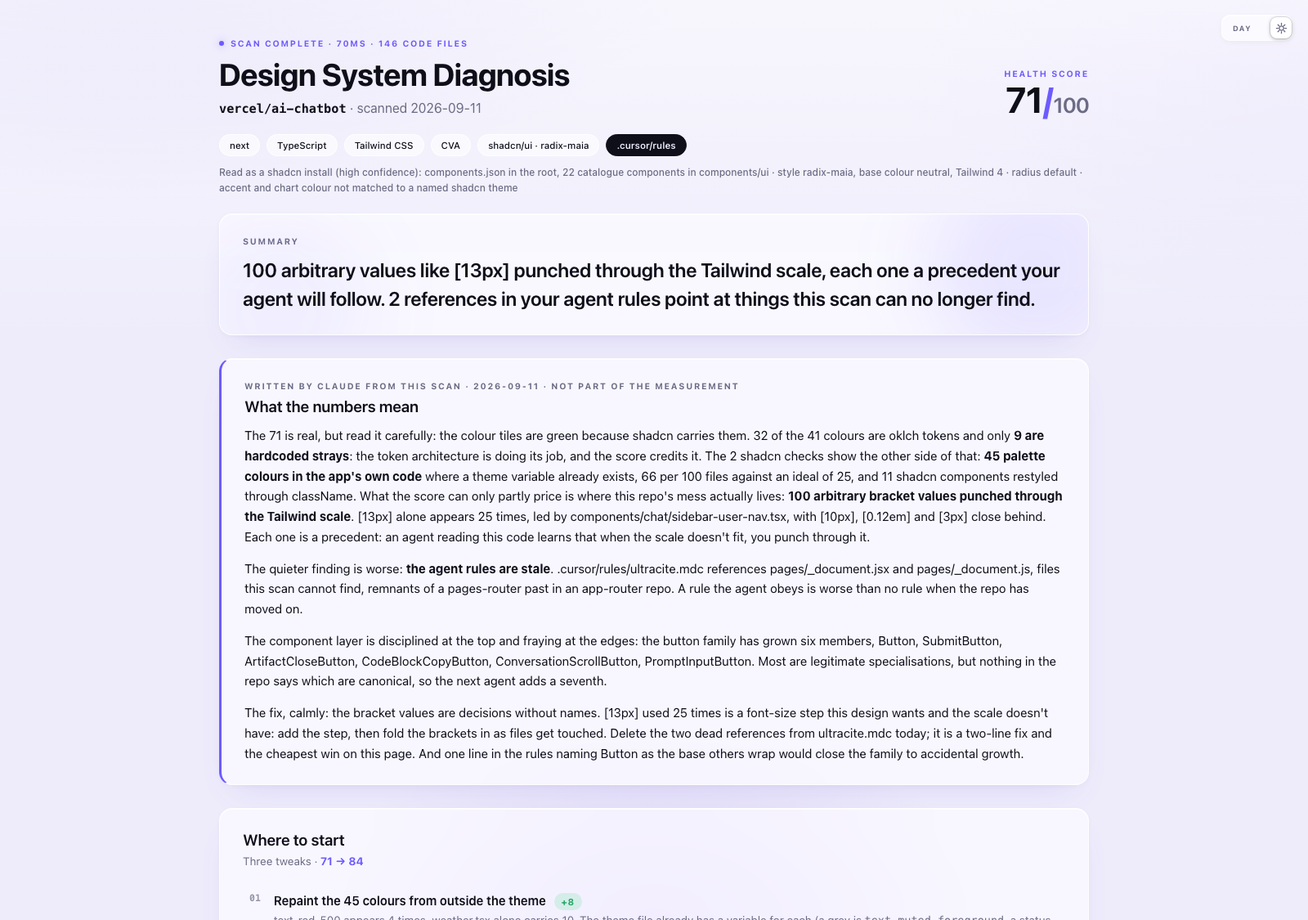
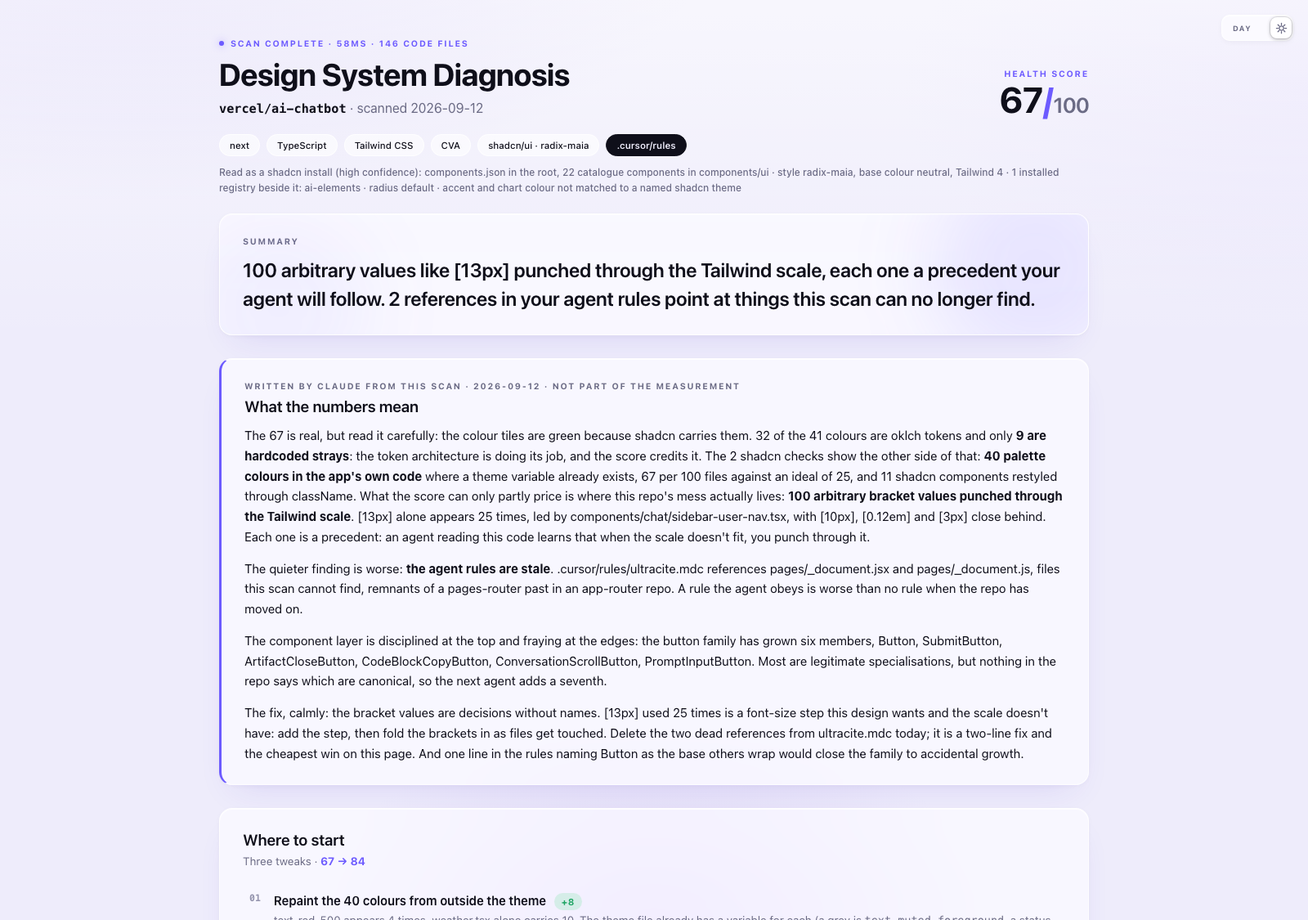
7.3.0: installed third-party registries are installed code
A folder a shadcn registry installs beside the catalogue (ai-elements,
kibo-ui, magicui, motion-primitives, or any name declared under
registries in components.json) is read like the catalogue: not own code,
and its components count as components when own code restyles them. 3 of
the 17 shadcn fleet repos carry one. Slice rebuilt, examples regenerated,
screenshots reshot. vercel/ai-chatbot: 40 off-theme colours in 60 own
files, 18 restyled components per 100, score 67.

diff --git a/docs/examples/vercel-ai-chatbot.html b/docs/examples/vercel-ai-chatbot.html
@@ -417,7 +417,7 @@
   .author:hover { text-decoration:underline; }
 </style>
 <!-- rmds-schema: gregkozakiewicz/7.2.0 -->
-<!-- rmds-score: 71 -->
+<!-- rmds-score: 67 -->
 </head><body>
 <button class="theme-toggle glass" aria-label="Switch between light and dark mode" onclick="(function(){var r=document.documentElement,t=r.getAttribute('data-theme')==='light'?'dark':'light';r.setAttribute('data-theme',t);try{localStorage.setItem('roast-theme',t)}catch(e){}})()">
   <span class="tt-lab tt-day">Day</span>
@@ -433,14 +433,14 @@
 <header>
   <div class="hero">
     <div>
-      <div class="kicker"><span class="dot"></span>Scan complete · 70ms · 146 code files</div>
+      <div class="kicker"><span class="dot"></span>Scan complete · 58ms · 146 code files</div>
       <h1>Design System Diagnosis</h1>
-      <div class="meta"><span class="mono">vercel/ai-chatbot</span> · scanned 2026-09-11</div>
+      <div class="meta"><span class="mono">vercel/ai-chatbot</span> · scanned 2026-09-12</div>
     </div>
-    <div class="score"><div class="eyebrow">Health score</div><div class="val">71<span class="slash">/</span><span class="of">100</span></div></div>
+    <div class="score"><div class="eyebrow">Health score</div><div class="val">67<span class="slash">/</span><span class="of">100</span></div></div>
   </div>
   <div class="chips"><span class="chip">next</span><span class="chip">TypeScript</span><span class="chip">Tailwind CSS</span><span class="chip">CVA</span><span class="chip">shadcn/ui · radix-maia</span><span class="chip chip-agent">.cursor/rules</span></div>
-  <div class="excl">Read as a shadcn install (high confidence): components.json in the root, 22 catalogue components in components/ui · style radix-maia, base colour neutral, Tailwind 4 · radius default · accent and chart colour not matched to a named shadcn theme</div>
+  <div class="excl">Read as a shadcn install (high confidence): components.json in the root, 22 catalogue components in components/ui · style radix-maia, base colour neutral, Tailwind 4 · 1 installed registry beside it: ai-elements · radius default · accent and chart colour not matched to a named shadcn theme</div>
   
   
   <div class="glass verdict-card">
@@ -452,24 +452,24 @@
 
 <section class="glass pad notes-sec">
     <div class="sec-head">
-      <div class="eyebrow">Written by Claude from this scan · 2026-09-11 · not part of the measurement</div>
+      <div class="eyebrow">Written by Claude from this scan · 2026-09-12 · not part of the measurement</div>
       <h2>What the numbers mean</h2>
     </div>
-    <div class="notes-body"><p>The 71 is real, but read it carefully: the colour tiles are green because shadcn carries them. 32 of the 41 colours are oklch tokens and only <strong>9 are hardcoded strays</strong>: the token architecture is doing its job, and the score credits it. The 2 shadcn checks show the other side of that: <strong>45 palette colours in the app's own code</strong> where a theme variable already exists, 66 per 100 files against an ideal of 25, and 11 shadcn components restyled through className. What the score can only partly price is where this repo's mess actually lives: <strong>100 arbitrary bracket values punched through the Tailwind scale</strong>. [13px] alone appears 25 times, led by components/chat/sidebar-user-nav.tsx, with [10px], [0.12em] and [3px] close behind. Each one is a precedent: an agent reading this code learns that when the scale doesn't fit, you punch through it.</p><p>The quieter finding is worse: <strong>the agent rules are stale</strong>. .cursor/rules/ultracite.mdc references pages/_document.jsx and pages/_document.js, files this scan cannot find, remnants of a pages-router past in an app-router repo. A rule the agent obeys is worse than no rule when the repo has moved on.</p><p>The component layer is disciplined at the top and fraying at the edges: the button family has grown six members, Button, SubmitButton, ArtifactCloseButton, CodeBlockCopyButton, ConversationScrollButton, PromptInputButton. Most are legitimate specialisations, but nothing in the repo says which are canonical, so the next agent adds a seventh.</p><p>The fix, calmly: the bracket values are decisions without names. [13px] used 25 times is a font-size step this design wants and the scale doesn't have: add the step, then fold the brackets in as files get touched. Delete the two dead references from ultracite.mdc today; it is a two-line fix and the cheapest win on this page. And one line in the rules naming Button as the base others wrap would close the family to accidental growth.</p></div>
+    <div class="notes-body"><p>The 67 is real, but read it carefully: the colour tiles are green because shadcn carries them. 32 of the 41 colours are oklch tokens and only <strong>9 are hardcoded strays</strong>: the token architecture is doing its job, and the score credits it. The 2 shadcn checks show the other side of that: <strong>40 palette colours in the app's own code</strong> where a theme variable already exists, 67 per 100 files against an ideal of 25, and 11 shadcn components restyled through className. What the score can only partly price is where this repo's mess actually lives: <strong>100 arbitrary bracket values punched through the Tailwind scale</strong>. [13px] alone appears 25 times, led by components/chat/sidebar-user-nav.tsx, with [10px], [0.12em] and [3px] close behind. Each one is a precedent: an agent reading this code learns that when the scale doesn't fit, you punch through it.</p><p>The quieter finding is worse: <strong>the agent rules are stale</strong>. .cursor/rules/ultracite.mdc references pages/_document.jsx and pages/_document.js, files this scan cannot find, remnants of a pages-router past in an app-router repo. A rule the agent obeys is worse than no rule when the repo has moved on.</p><p>The component layer is disciplined at the top and fraying at the edges: the button family has grown six members, Button, SubmitButton, ArtifactCloseButton, CodeBlockCopyButton, ConversationScrollButton, PromptInputButton. Most are legitimate specialisations, but nothing in the repo says which are canonical, so the next agent adds a seventh.</p><p>The fix, calmly: the bracket values are decisions without names. [13px] used 25 times is a font-size step this design wants and the scale doesn't have: add the step, then fold the brackets in as files get touched. Delete the two dead references from ultracite.mdc today; it is a two-line fix and the cheapest win on this page. And one line in the rules naming Button as the base others wrap would close the family to accidental growth.</p></div>
 </section>
 
 
 
 <section class="glass pad">
-    <div class="sec-head"><h2>Where to start</h2><p class="sub">Three tweaks · <b class="proj">71 &rarr; 84</b></p></div>
+    <div class="sec-head"><h2>Where to start</h2><p class="sub">Three tweaks · <b class="proj">67 &rarr; 84</b></p></div>
     <div class="ledger">
       <div class="ledger-row start-row">
         <span class="ledger-idx">01</span>
-        <div class="start-body"><div class="start-head"><div class="start-title">Repaint the 45 colours from outside the theme</div><span class="delta">+8</span></div><div class="sub">text-red-500 appears 4 times, weather.tsx alone carries 10. The theme file already has a variable for each (a grey is <code>text-muted-foreground</code>, a status colour is a Badge variant or a variable you add). Swap the class, not the value.</div>
+        <div class="start-body"><div class="start-head"><div class="start-title">Repaint the 40 colours from outside the theme</div><span class="delta">+8</span></div><div class="sub">text-red-500 appears 4 times, weather.tsx alone carries 10. The theme file already has a variable for each (a grey is <code>text-muted-foreground</code>, a status colour is a Badge variant or a variable you add). Swap the class, not the value.</div>
         <div class="start-actions"><button type="button" class="fixbtn" data-fix="0">Copy the fix prompt</button><span class="fixhint">paste it into your agent · <button type="button" class="fixview" data-fix="0">view it first</button></span></div>
         <div class="fixprompt" hidden id="fixprompt-0">You are fixing one design-system finding in the vercel-ai-chatbot repository, measured by roast-my-design-system.
 
-The finding: Repaint the 45 colours from outside the theme
+The finding: Repaint the 40 colours from outside the theme
 
 The detail: text-red-500 appears 4 times, weather.tsx alone carries 10. The theme file already has a variable for each (a grey is text-muted-foreground, a status colour is a Badge variant or a variable you add). Swap the class, not the value.
 
@@ -487,7 +487,7 @@ npx roast-my-design-system@latest</div></div>
       </div>
       <div class="ledger-row start-row">
         <span class="ledger-idx">02</span>
-        <div class="start-body"><div class="start-head"><div class="start-title">Stop restyling shadcn components through className</div><span class="delta">+4</span></div><div class="sub">11 shadcn components receive a colour or a font through className, like &lt;SidebarGroupLabel className=&quot;font-semibold&quot;&gt;. Use the variant that does it, or add one to the component you own. className on a shadcn component is for layout only.</div>
+        <div class="start-body"><div class="start-head"><div class="start-title">Stop restyling shadcn components through className</div><span class="delta">+8</span></div><div class="sub">11 shadcn components receive a colour or a font through className, like &lt;SidebarGroupLabel className=&quot;font-semibold&quot;&gt;. Use the variant that does it, or add one to the component you own. className on a shadcn component is for layout only.</div>
         <div class="start-actions"><button type="button" class="fixbtn" data-fix="1">Copy the fix prompt</button><span class="fixhint">paste it into your agent · <button type="button" class="fixview" data-fix="1">view it first</button></span></div>
         <div class="fixprompt" hidden id="fixprompt-1">You are fixing one design-system finding in the vercel-ai-chatbot repository, measured by roast-my-design-system.
 
@@ -495,7 +495,7 @@ The finding: Stop restyling shadcn components through className
 
 The detail: 11 shadcn components receive a colour or a font through className, like &lt;SidebarGroupLabel className=&amp;quot;font-semibold&amp;quot;&gt;. Use the variant that does it, or add one to the component you own. className on a shadcn component is for layout only.
 
-Expected payoff: about +4 points on the report's 0-100 score.
+Expected payoff: about +8 points on the report's 0-100 score.
 
 How to fix it, calmly and with respect for intent:
 - A value used many times is a decision without a name, not a mistake. Name it and consolidate; never blind-delete.
@@ -565,7 +565,7 @@ npx roast-my-design-system@latest</div></div>
           <span class="gift-count">21 rules generated from this scan, every one with a receipt</span></div>
         <pre class="gift-md" id="gift-md">## Design system rules
 
-&lt;!-- Generated by roast-my-design-system from a scan of vercel/ai-chatbot on 2026-09-11.
+&lt;!-- Generated by roast-my-design-system from a scan of vercel/ai-chatbot on 2026-09-12.
      Paste into CLAUDE.md, .cursor/rules or AGENTS.md. Regenerate after big refactors:
      npx roast-my-design-system@latest --rules
      Door note: Codex and Cursor read AGENTS.md; Claude Code reads CLAUDE.md only.
@@ -615,7 +615,7 @@ Follow these rules when writing or editing UI in this repo. Every rule below was
 
 - This is a shadcn install (style `radix-maia`, base colour neutral). The theme is a set of CSS variables in `app/globals.css`: background, foreground, primary, muted, border and the rest, each with a light and a dark value. Change a colour there, never in a component.
 - Use the semantic classes the theme gives you (`bg-background`, `text-muted-foreground`, `border-border`), never a palette colour like `bg-blue-500` or `text-gray-600`, and never a hand-written `dark:` colour. The variables already carry both modes.
-  (45 palette colours already sit in own code, `text-red-500` ×4, `dark:text-neutral-50` ×4, `text-red-600` ×3; do not add to them.)
+  (40 palette colours already sit in own code, `text-red-500` ×4, `dark:text-neutral-50` ×4, `text-red-600` ×2; do not add to them.)
 - Before adding classes to a shadcn component, use one of its variants (`variant=&quot;outline&quot;`, `size=&quot;sm&quot;`). `className` on a shadcn component is for layout only: width, margin, position. Never colour, never typography.
   (11 shadcn components already restyled through className, like `&lt;SidebarGroupLabel className=&quot;font-semibold&quot;&gt;` and `&lt;Label className=&quot;font-normal&quot;&gt;`; do not add to them.)
 - Edit the component you own in `components/ui`. Never build a second one beside it under another name. A wrapper that composes shadcn components is fine; a second implementation is not.
@@ -684,12 +684,12 @@ Follow these rules when writing or editing UI in this repo. Every rule below was
   <div class="rows"><div class="row"><span class="rlab">Ideal Design System</span><span class="rval">~20 <span class="dir d-up">▲</span></span></div><div class="row"><span class="rlab">Avg shadcn repo</span><span class="rval">169 · cleaner than 76% <span class="dir d-down">▼</span></span></div><div class="row"><span class="rlab">Reputable systems</span><span class="rval">0 <span class="dir d-up">▲</span></span></div></div>
 </div><div class="stat glass st-bad">
   <svg class="ic ic-bad" viewBox="0 0 24 24"><line x1="18.5" y1="5.5" x2="5.5" y2="18.5"/><line x1="5.5" y1="5.5" x2="18.5" y2="18.5"/></svg>
-  <div class="num">66</div><div class="lab">off-theme colours per 100 files</div>
+  <div class="num">67</div><div class="lab">off-theme colours per 100 files</div>
   <div class="rows"><div class="row"><span class="rlab">Ideal Design System</span><span class="rval">~25 <span class="dir d-up">▲</span></span></div><div class="row"><span class="rlab">Avg shadcn repo</span><span class="rval">57 · messier than 65% <span class="dir d-up">▲</span></span></div></div>
-</div><div class="stat glass st-warn">
-  <svg class="ic ic-warn" viewBox="0 0 24 24"><circle cx="12" cy="12" r="9.5"/><line x1="12" y1="7.5" x2="12" y2="13"/><line x1="12" y1="16.5" x2="12" y2="16.51"/></svg>
-  <div class="num">16</div><div class="lab">components restyled from outside per 100 files</div>
-  <div class="rows"><div class="row"><span class="rlab">Ideal Design System</span><span class="rval">~15 <span class="dir d-up">▲</span></span></div><div class="row"><span class="rlab">Avg shadcn repo</span><span class="rval">16 <span class="dir d-eq">=</span></span></div></div>
+</div><div class="stat glass st-bad">
+  <svg class="ic ic-bad" viewBox="0 0 24 24"><line x1="18.5" y1="5.5" x2="5.5" y2="18.5"/><line x1="5.5" y1="5.5" x2="18.5" y2="18.5"/></svg>
+  <div class="num">18</div><div class="lab">components restyled from outside per 100 files</div>
+  <div class="rows"><div class="row"><span class="rlab">Ideal Design System</span><span class="rval">~15 <span class="dir d-up">▲</span></span></div><div class="row"><span class="rlab">Avg shadcn repo</span><span class="rval">17 <span class="dir d-up">▲</span></span></div></div>
 </div></div>
 
 
@@ -725,7 +725,7 @@ Follow these rules when writing or editing UI in this repo. Every rule below was
 </section></section>
 <section class="glass pad" id="shadcn" style="margin-top:16px">
     <div class="sec-head"><h2>The shadcn theme and the 2 shadcn checks</h2><p class="sub">shadcn gives you a theme file of named variables and a set of components with variants. These receipts show where your own code went around both.</p></div>
-    <div class="receipts"><div class="eyebrow">the theme file, variable by variable</div><p class="sub">44 variables for light, 35 for dark in app/globals.css · 12 custom variables of your own (--shadow-card, --shadow-float, --shadow-composer, --shadow-composer-focus, --shadow-inset…), 3 of them light only, 3 never mapped in @theme inline.</p></div><div class="receipts"><div class="eyebrow">45 colours from outside the theme in 10 of 68 own files · 66 per 100 files</div><div class="chips-row"><span class="vchip bad">text-red-500 ×4</span><span class="vchip bad">dark:text-neutral-50 ×4</span><span class="vchip bad">text-red-600 ×3</span><span class="vchip bad">text-green-600 ×2</span><span class="vchip bad">border-red-200 ×2</span><span class="vchip bad">bg-red-50 ×2</span><span class="vchip bad">dark:bg-red-950/50 ×2</span><span class="vchip bad">dark:bg-neutral-950 ×2</span></div><div class="chips-row"><span class="vchip" title="components/chat/weather.tsx">weather.tsx ×10</span><span class="vchip" title="components/chat/message.tsx">message.tsx ×9</span><span class="vchip" title="components/chat/sheet-editor.tsx">sheet-editor.tsx ×8</span><span class="vchip" title="components/chat/diffview.tsx">diffview.tsx ×6</span><span class="vchip" title="components/ai-elements/tool.tsx">tool.tsx ×5</span></div></div><div class="whywrap"><button type="button" class="whybtn" data-why="paintTin"><svg class="why-ic" viewBox="0 0 24 24" aria-hidden="true"><circle cx="12" cy="12" r="9.5"/><path d="M9.3 9.1a2.8 2.8 0 1 1 4 3.1c-.9.5-1.3 1.1-1.3 2.1"/><line x1="12" y1="17.2" x2="12" y2="17.21"/></svg><span class="why-lab">why this matters</span></button><div class="whytext" hidden id="why-paintTin"><p>shadcn gives every project a theme file. It holds one CSS variable per job: background, foreground, muted text, border, ring, and about 30 more. Each has a light value and a dark value. Components use them through classes like bg-background and text-muted-foreground.</p><p>A palette class such as text-gray-500 or bg-blue-100 skips that file. It works on the day. It stops working at the first theme change: the variables move, the palette colour stays, and the page shows 2 designs at once. Dark mode is where it shows first. A variable carries both values; a palette class carries one, so someone adds dark:bg-gray-900 next to it, and now there are 2 places to keep in step. An AI agent reading that file copies the pair.</p><p>The ideal is 25 per 100 files. That is where the tidiest third of 15 shadcn repos in the benchmark sit; the median is 62. shadcn's own rules for agents say it in 1 line: use semantic colours, never bg-blue-500.</p></div></div><div class="receipts"><div class="eyebrow">11 shadcn components restyled through className · 16 per 100 files</div><div class="chips-row"><span class="vchip bad">&lt;SidebarGroupLabel className=&quot;font-semibold&quot;&gt; ×3</span><span class="vchip bad">&lt;Label className=&quot;font-normal&quot;&gt; ×2</span><span class="vchip bad">&lt;Input className=&quot;text-sm&quot;&gt; ×2</span><span class="vchip bad">&lt;SelectTrigger className=&quot;text-xs&quot;&gt; ×1</span><span class="vchip bad">&lt;Badge className=&quot;text-xs&quot;&gt; ×1</span><span class="vchip bad">&lt;SidebarMenuButton className=&quot;data-active:font-normal font-medium&quot;&gt; ×1</span></div></div><div class="whywrap"><button type="button" class="whybtn" data-why="doorOverrides"><svg class="why-ic" viewBox="0 0 24 24" aria-hidden="true"><circle cx="12" cy="12" r="9.5"/><path d="M9.3 9.1a2.8 2.8 0 1 1 4 3.1c-.9.5-1.3 1.1-1.3 2.1"/><line x1="12" y1="17.2" x2="12" y2="17.21"/></svg><span class="why-lab">why this matters</span></button><div class="whytext" hidden id="why-doorOverrides"><p>A shadcn component ships with variants: outline, ghost, destructive, small, large. The variant decides how the component looks, once, in the component file you own. Passing bg-blue-100 or font-bold through className decides it again at the call site, where the component can not see it.</p><p>Do this in 5 places and 1 button has 6 designs. The next person can not tell which one is intended, and an agent copies whichever it finds first. shadcn's guidance gives 3 routes: use a variant that exists, add a variant to the component, or add a variable to the theme file. className is for layout: width, margin, position.</p><p>The ideal is 15 per 100 files, the tidiest third of the same 15 repos; the median is 22.</p></div></div>
+    <div class="receipts"><div class="eyebrow">the theme file, variable by variable</div><p class="sub">44 variables for light, 35 for dark in app/globals.css · 12 custom variables of your own (--shadow-card, --shadow-float, --shadow-composer, --shadow-composer-focus, --shadow-inset…), 3 of them light only, 3 never mapped in @theme inline.</p></div><div class="receipts"><div class="eyebrow">40 colours from outside the theme in 9 of 60 own files · 67 per 100 files</div><div class="chips-row"><span class="vchip bad">text-red-500 ×4</span><span class="vchip bad">dark:text-neutral-50 ×4</span><span class="vchip bad">text-red-600 ×2</span><span class="vchip bad">border-red-200 ×2</span><span class="vchip bad">bg-red-50 ×2</span><span class="vchip bad">dark:bg-red-950/50 ×2</span><span class="vchip bad">dark:bg-neutral-950 ×2</span><span class="vchip bad">dark:bg-neutral-900 ×2</span></div><div class="chips-row"><span class="vchip" title="components/chat/weather.tsx">weather.tsx ×10</span><span class="vchip" title="components/chat/message.tsx">message.tsx ×9</span><span class="vchip" title="components/chat/sheet-editor.tsx">sheet-editor.tsx ×8</span><span class="vchip" title="components/chat/diffview.tsx">diffview.tsx ×6</span><span class="vchip" title="components/chat/console.tsx">console.tsx ×2</span></div></div><div class="whywrap"><button type="button" class="whybtn" data-why="paintTin"><svg class="why-ic" viewBox="0 0 24 24" aria-hidden="true"><circle cx="12" cy="12" r="9.5"/><path d="M9.3 9.1a2.8 2.8 0 1 1 4 3.1c-.9.5-1.3 1.1-1.3 2.1"/><line x1="12" y1="17.2" x2="12" y2="17.21"/></svg><span class="why-lab">why this matters</span></button><div class="whytext" hidden id="why-paintTin"><p>shadcn gives every project a theme file. It holds one CSS variable per job: background, foreground, muted text, border, ring, and about 30 more. Each has a light value and a dark value. Components use them through classes like bg-background and text-muted-foreground.</p><p>A palette class such as text-gray-500 or bg-blue-100 skips that file. It works on the day. It stops working at the first theme change: the variables move, the palette colour stays, and the page shows 2 designs at once. Dark mode is where it shows first. A variable carries both values; a palette class carries one, so someone adds dark:bg-gray-900 next to it, and now there are 2 places to keep in step. An AI agent reading that file copies the pair.</p><p>The ideal is 25 per 100 files. That is where the tidiest third of 15 shadcn repos in the benchmark sit; the median is 62. shadcn's own rules for agents say it in 1 line: use semantic colours, never bg-blue-500.</p></div></div><div class="receipts"><div class="eyebrow">11 shadcn components restyled through className · 18 per 100 files</div><div class="chips-row"><span class="vchip bad">&lt;SidebarGroupLabel className=&quot;font-semibold&quot;&gt; ×3</span><span class="vchip bad">&lt;Label className=&quot;font-normal&quot;&gt; ×2</span><span class="vchip bad">&lt;Input className=&quot;text-sm&quot;&gt; ×2</span><span class="vchip bad">&lt;Shimmer className=&quot;font-medium&quot;&gt; ×1</span><span class="vchip bad">&lt;ToolOutput className=&quot;text-red-500&quot;&gt; ×1</span><span class="vchip bad">&lt;SidebarMenuButton className=&quot;data-active:font-normal font-medium&quot;&gt; ×1</span></div></div><div class="whywrap"><button type="button" class="whybtn" data-why="doorOverrides"><svg class="why-ic" viewBox="0 0 24 24" aria-hidden="true"><circle cx="12" cy="12" r="9.5"/><path d="M9.3 9.1a2.8 2.8 0 1 1 4 3.1c-.9.5-1.3 1.1-1.3 2.1"/><line x1="12" y1="17.2" x2="12" y2="17.21"/></svg><span class="why-lab">why this matters</span></button><div class="whytext" hidden id="why-doorOverrides"><p>A shadcn component ships with variants: outline, ghost, destructive, small, large. The variant decides how the component looks, once, in the component file you own. Passing bg-blue-100 or font-bold through className decides it again at the call site, where the component can not see it.</p><p>Do this in 5 places and 1 button has 6 designs. The next person can not tell which one is intended, and an agent copies whichever it finds first. shadcn's guidance gives 3 routes: use a variant that exists, add a variant to the component, or add a variable to the theme file. className is for layout: width, margin, position.</p><p>The ideal is 15 per 100 files, the tidiest third of the same 15 repos; the median is 22.</p></div></div>
   </section>
 
 <section class="glass pad">
@@ -1056,7 +1056,7 @@ Follow these rules when writing or editing UI in this repo. Every rule below was
 <footer>
   <div class="foot-left">
     <div>Generated by <a class="brand" href="https://github.com/gregkozakiewicz/roast-my-design-system">roast-my-design-system</a> <span class="ver">ver. 7.3.0</span> · free to run: <span class="mono" id="npx-cmd">npx roast-my-design-system@latest</span> <button type="button" class="copy-pill" id="npx-copy">copy</button> · also a Claude Code + Codex skill and a local MCP server</div>
-    <div class="foot-sub">Designed and built by <a class="author" href="https://gregkozakiewicz.com/?utm_source=roast-report"><span class="gk-mark"></span>Greg Kozakiewicz</a> · <span class="scan-id" title="scan id">84e678e6edb8</span> · Think it got something wrong? <a class="feedback" href="https://github.com/gregkozakiewicz/roast-my-design-system/issues/new?template=feedback.yml&amp;version=7.2.0"><svg class="pulse" viewBox="0 0 24 24" aria-hidden="true"><polyline points="2 12.5 6.5 12.5 9.5 4 15 20.5 18 12.5 22 12.5"/></svg>Say so, and say which bit</a></div>
+    <div class="foot-sub">Designed and built by <a class="author" href="https://gregkozakiewicz.com/?utm_source=roast-report"><span class="gk-mark"></span>Greg Kozakiewicz</a> · <span class="scan-id" title="scan id">c35604857cd0</span> · Think it got something wrong? <a class="feedback" href="https://github.com/gregkozakiewicz/roast-my-design-system/issues/new?template=feedback.yml&amp;version=7.2.0"><svg class="pulse" viewBox="0 0 24 24" aria-hidden="true"><polyline points="2 12.5 6.5 12.5 9.5 4 15 20.5 18 12.5 22 12.5"/></svg>Say so, and say which bit</a></div>
   </div>
   <span class="creds"><span>Non-destructive scan</span><span>Read-only</span><span>Paths are real</span></span>
 </footer>

diff --git a/docs/examples/telekom-scale.html b/docs/examples/telekom-scale.html
@@ -433,9 +433,9 @@
 <header>
   <div class="hero">
     <div>
-      <div class="kicker"><span class="dot"></span>Scan complete · 105ms · 210 code files</div>
+      <div class="kicker"><span class="dot"></span>Scan complete · 87ms · 210 code files</div>
       <h1>Design System Diagnosis</h1>
-      <div class="meta"><span class="mono">telekom/scale</span> · scanned 2026-09-11</div>
+      <div class="meta"><span class="mono">telekom/scale</span> · scanned 2026-09-12</div>
     </div>
     <div class="score"><div class="eyebrow">Health score</div><div class="val">55<span class="slash">/</span><span class="of">100</span></div></div>
   </div>
@@ -452,7 +452,7 @@
 
 <section class="glass pad notes-sec">
     <div class="sec-head">
-      <div class="eyebrow">Written by Claude from this scan · 2026-09-11 · not part of the measurement</div>
+      <div class="eyebrow">Written by Claude from this scan · 2026-09-12 · not part of the measurement</div>
       <h2>What the numbers mean</h2>
     </div>
     <div class="notes-body"><p>Scale is architecturally sound, and this scan can now say so with the components read: 95 Stencil web components, generated React, Vue and Angular wrappers, and a real composition core where <strong>scale-dropdown-select-item</strong>, <strong>scale-combobox</strong> and <strong>scale-button</strong> do the heavy lifting. The findings below are not quality problems. They are the residue of a token migration that was started and never closed out.</p><p><strong>The headline is still the token migration.</strong> Most token references answer to the current --telekom-* namespace, while a minority still call --scl-*, whose definitions sit in the in-repo @telekom/scale-design-tokens package that is itself marked deprecated in favour of the separate @telekom/design-tokens. The source of truth moved; some of the calls have not followed it yet. The 66 off-scale spacing values and the 2 near-identical colour pairs are the same unfinished move wearing different clothes.</p><p><strong>Where the specificity fights are.</strong> The 26 !important declarations cluster instead of spreading: data-grid alone carries 8. The composite components are where the cascade is being argued with, and those are also the components consumers can least work around.</p><p><strong>Three names are defined twice.</strong> TelekomNavItem, Logo and Shell each have two implementations. In a system whose whole promise is one canonical answer per question, an agent asked for the nav item has a coin to flip. Small list, cheap fix, outsized signal.</p><p><strong>Two colour findings worth separating.</strong> #cb0068, the pressed state of Telekom magenta, appears hardcoded rather than derived from the brand token, and it is the one colour the licence specifically ring-fences: the clearest commercial argument for a real token boundary. Separately, the near-identical dark pair #1b1b1b next to #191919 is copy-paste, not a decision.</p><p><strong>What is genuinely working.</strong> 302 colours sounds alarming and is not: 297 of them are tokens, the greys ride on the same tokens, and there are zero arbitrary bracket values and zero unimported components in the design-system scope. The web component core with generated framework wrappers remains the right call for an organisation with this many product estates.</p><p><strong>One gap that grows monthly.</strong> No CLAUDE.md, no AGENTS.md. For a design system whose entire job is telling people which component is canonical, every agent-written UI change is currently a guess. The rules file this scan can generate would name the canonical components, the --telekom-* namespace and the duplicates to avoid, in one page.</p></div>
@@ -550,7 +550,7 @@ npx roast-my-design-system@latest</div></div>
           <span class="gift-count">14 rules generated from this scan, every one with a receipt</span></div>
         <pre class="gift-md" id="gift-md">## Design system rules
 
-&lt;!-- Generated by roast-my-design-system from a scan of telekom/scale on 2026-09-11.
+&lt;!-- Generated by roast-my-design-system from a scan of telekom/scale on 2026-09-12.
      Paste into CLAUDE.md, .cursor/rules or AGENTS.md. Regenerate after big refactors:
      npx roast-my-design-system@latest --rules
      Door note: Codex and Cursor read AGENTS.md; Claude Code reads CLAUDE.md only.
@@ -1056,7 +1056,7 @@ Follow these rules when writing or editing UI in this repo. Every rule below was
 <footer>
   <div class="foot-left">
     <div>Generated by <a class="brand" href="https://github.com/gregkozakiewicz/roast-my-design-system">roast-my-design-system</a> <span class="ver">ver. 7.3.0</span> · free to run: <span class="mono" id="npx-cmd">npx roast-my-design-system@latest</span> <button type="button" class="copy-pill" id="npx-copy">copy</button> · also a Claude Code + Codex skill and a local MCP server</div>
-    <div class="foot-sub">Designed and built by <a class="author" href="https://gregkozakiewicz.com/?utm_source=roast-report"><span class="gk-mark"></span>Greg Kozakiewicz</a> · <span class="scan-id" title="scan id">36590eb69160</span> · Think it got something wrong? <a class="feedback" href="https://github.com/gregkozakiewicz/roast-my-design-system/issues/new?template=feedback.yml&amp;version=7.2.0"><svg class="pulse" viewBox="0 0 24 24" aria-hidden="true"><polyline points="2 12.5 6.5 12.5 9.5 4 15 20.5 18 12.5 22 12.5"/></svg>Say so, and say which bit</a></div>
+    <div class="foot-sub">Designed and built by <a class="author" href="https://gregkozakiewicz.com/?utm_source=roast-report"><span class="gk-mark"></span>Greg Kozakiewicz</a> · <span class="scan-id" title="scan id">2eee9613d4c4</span> · Think it got something wrong? <a class="feedback" href="https://github.com/gregkozakiewicz/roast-my-design-system/issues/new?template=feedback.yml&amp;version=7.2.0"><svg class="pulse" viewBox="0 0 24 24" aria-hidden="true"><polyline points="2 12.5 6.5 12.5 9.5 4 15 20.5 18 12.5 22 12.5"/></svg>Say so, and say which bit</a></div>
   </div>
   <span class="creds"><span>Non-destructive scan</span><span>Read-only</span><span>Paths are real</span></span>
 </footer>

diff --git a/docs/examples/dubinc-dub.html b/docs/examples/dubinc-dub.html
@@ -433,9 +433,9 @@
 <header>
   <div class="hero">
     <div>
-      <div class="kicker"><span class="dot"></span>Scan complete · 881ms · 4,157 code files</div>
+      <div class="kicker"><span class="dot"></span>Scan complete · 819ms · 4,157 code files</div>
       <h1>Design System Diagnosis</h1>
-      <div class="meta"><span class="mono">dubinc/dub</span> · scanned 2026-09-11</div>
+      <div class="meta"><span class="mono">dubinc/dub</span> · scanned 2026-09-12</div>
     </div>
     <div class="score"><div class="eyebrow">Health score</div><div class="val">15<span class="slash">/</span><span class="of">100</span></div></div>
   </div>
@@ -546,7 +546,7 @@ npx roast-my-design-system@latest</div></div>
           <span class="gift-count">27 rules generated from this scan, every one with a receipt</span></div>
         <pre class="gift-md" id="gift-md">## Design system rules
 
-&lt;!-- Generated by roast-my-design-system from a scan of dubinc/dub on 2026-09-11.
+&lt;!-- Generated by roast-my-design-system from a scan of dubinc/dub on 2026-09-12.
      Paste into CLAUDE.md, .cursor/rules or AGENTS.md. Regenerate after big refactors:
      npx roast-my-design-system@latest --rules
      Door note: Codex and Cursor read AGENTS.md; Claude Code reads CLAUDE.md only.
@@ -681,7 +681,7 @@ Follow these rules when writing or editing UI in this repo. Every rule below was
 </div><div class="stat glass st-bad">
   <svg class="ic ic-bad" viewBox="0 0 24 24"><line x1="18.5" y1="5.5" x2="5.5" y2="18.5"/><line x1="5.5" y1="5.5" x2="18.5" y2="18.5"/></svg>
   <div class="num">40</div><div class="lab">components restyled from outside per 100 files</div>
-  <div class="rows"><div class="row"><span class="rlab">Ideal Design System</span><span class="rval">~15 <span class="dir d-up">▲</span></span></div><div class="row"><span class="rlab">Avg shadcn repo</span><span class="rval">16 · messier than 82% <span class="dir d-up">▲</span></span></div></div>
+  <div class="rows"><div class="row"><span class="rlab">Ideal Design System</span><span class="rval">~15 <span class="dir d-up">▲</span></span></div><div class="row"><span class="rlab">Avg shadcn repo</span><span class="rval">17 · messier than 82% <span class="dir d-up">▲</span></span></div></div>
 </div></div>
 
 <section class="glass pad">
@@ -1135,7 +1135,7 @@ Follow these rules when writing or editing UI in this repo. Every rule below was
 <footer>
   <div class="foot-left">
     <div>Generated by <a class="brand" href="https://github.com/gregkozakiewicz/roast-my-design-system">roast-my-design-system</a> <span class="ver">ver. 7.3.0</span> · free to run: <span class="mono" id="npx-cmd">npx roast-my-design-system@latest</span> <button type="button" class="copy-pill" id="npx-copy">copy</button> · also a Claude Code + Codex skill and a local MCP server</div>
-    <div class="foot-sub">Designed and built by <a class="author" href="https://gregkozakiewicz.com/?utm_source=roast-report"><span class="gk-mark"></span>Greg Kozakiewicz</a> · <span class="scan-id" title="scan id">f2e7a6e2d287</span> · Think it got something wrong? <a class="feedback" href="https://github.com/gregkozakiewicz/roast-my-design-system/issues/new?template=feedback.yml&amp;version=7.2.0"><svg class="pulse" viewBox="0 0 24 24" aria-hidden="true"><polyline points="2 12.5 6.5 12.5 9.5 4 15 20.5 18 12.5 22 12.5"/></svg>Say so, and say which bit</a></div>
+    <div class="foot-sub">Designed and built by <a class="author" href="https://gregkozakiewicz.com/?utm_source=roast-report"><span class="gk-mark"></span>Greg Kozakiewicz</a> · <span class="scan-id" title="scan id">2edf44a753dc</span> · Think it got something wrong? <a class="feedback" href="https://github.com/gregkozakiewicz/roast-my-design-system/issues/new?template=feedback.yml&amp;version=7.2.0"><svg class="pulse" viewBox="0 0 24 24" aria-hidden="true"><polyline points="2 12.5 6.5 12.5 9.5 4 15 20.5 18 12.5 22 12.5"/></svg>Say so, and say which bit</a></div>
   </div>
   <span class="creds"><span>Non-destructive scan</span><span>Read-only</span><span>Paths are real</span></span>
 </footer>

diff --git a/docs/examples/adobe-spectrum.html b/docs/examples/adobe-spectrum.html
@@ -433,9 +433,9 @@
 <header>
   <div class="hero">
     <div>
-      <div class="kicker"><span class="dot"></span>Scan complete · 355ms · 1,716 code files</div>
+      <div class="kicker"><span class="dot"></span>Scan complete · 303ms · 1,716 code files</div>
       <h1>Design System Diagnosis</h1>
-      <div class="meta"><span class="mono">adobe/spectrum-web-components</span> · scanned 2026-09-11</div>
+      <div class="meta"><span class="mono">adobe/spectrum-web-components</span> · scanned 2026-09-12</div>
     </div>
     <div class="score"><div class="eyebrow">Health score</div><div class="val">66<span class="slash">/</span><span class="of">100</span></div></div>
   </div>
@@ -567,7 +567,7 @@ npx roast-my-design-system@latest</div></div>
           <span class="gift-count">11 rules generated from this scan, every one with a receipt</span></div>
         <pre class="gift-md" id="gift-md">## Design system rules
 
-&lt;!-- Generated by roast-my-design-system from a scan of adobe/spectrum-web-components on 2026-09-11.
+&lt;!-- Generated by roast-my-design-system from a scan of adobe/spectrum-web-components on 2026-09-12.
      Paste into CLAUDE.md, .cursor/rules or AGENTS.md. Regenerate after big refactors:
      npx roast-my-design-system@latest --rules
      Door note: Codex and Cursor read AGENTS.md; Claude Code reads CLAUDE.md only.
@@ -936,7 +936,7 @@ Follow these rules when writing or editing UI in this repo. Every rule below was
 <footer>
   <div class="foot-left">
     <div>Generated by <a class="brand" href="https://github.com/gregkozakiewicz/roast-my-design-system">roast-my-design-system</a> <span class="ver">ver. 7.3.0</span> · free to run: <span class="mono" id="npx-cmd">npx roast-my-design-system@latest</span> <button type="button" class="copy-pill" id="npx-copy">copy</button> · also a Claude Code + Codex skill and a local MCP server</div>
-    <div class="foot-sub">Designed and built by <a class="author" href="https://gregkozakiewicz.com/?utm_source=roast-report"><span class="gk-mark"></span>Greg Kozakiewicz</a> · <span class="scan-id" title="scan id">f77f3d3d1cd1</span> · Think it got something wrong? <a class="feedback" href="https://github.com/gregkozakiewicz/roast-my-design-system/issues/new?template=feedback.yml&amp;version=7.2.0"><svg class="pulse" viewBox="0 0 24 24" aria-hidden="true"><polyline points="2 12.5 6.5 12.5 9.5 4 15 20.5 18 12.5 22 12.5"/></svg>Say so, and say which bit</a></div>
+    <div class="foot-sub">Designed and built by <a class="author" href="https://gregkozakiewicz.com/?utm_source=roast-report"><span class="gk-mark"></span>Greg Kozakiewicz</a> · <span class="scan-id" title="scan id">d143b9f4cd44</span> · Think it got something wrong? <a class="feedback" href="https://github.com/gregkozakiewicz/roast-my-design-system/issues/new?template=feedback.yml&amp;version=7.2.0"><svg class="pulse" viewBox="0 0 24 24" aria-hidden="true"><polyline points="2 12.5 6.5 12.5 9.5 4 15 20.5 18 12.5 22 12.5"/></svg>Say so, and say which bit</a></div>
   </div>
   <span class="creds"><span>Non-destructive scan</span><span>Read-only</span><span>Paths are real</span></span>
 </footer>

diff --git a/docs/examples/excalidraw-excalidraw.html b/docs/examples/excalidraw-excalidraw.html
@@ -433,9 +433,9 @@
 <header>
   <div class="hero">
     <div>
-      <div class="kicker"><span class="dot"></span>Scan complete · 187ms · 509 code files</div>
+      <div class="kicker"><span class="dot"></span>Scan complete · 159ms · 509 code files</div>
       <h1>Design System Diagnosis</h1>
-      <div class="meta"><span class="mono">excalidraw/excalidraw</span> · scanned 2026-09-11</div>
+      <div class="meta"><span class="mono">excalidraw/excalidraw</span> · scanned 2026-09-12</div>
     </div>
     <div class="score"><div class="eyebrow">Health score</div><div class="val">55<span class="slash">/</span><span class="of">100</span></div></div>
   </div>
@@ -546,7 +546,7 @@ npx roast-my-design-system@latest</div></div>
           <span class="gift-count">13 rules generated from this scan, every one with a receipt</span></div>
         <pre class="gift-md" id="gift-md">## Design system rules
 
-&lt;!-- Generated by roast-my-design-system from a scan of excalidraw/excalidraw on 2026-09-11.
+&lt;!-- Generated by roast-my-design-system from a scan of excalidraw/excalidraw on 2026-09-12.
      Paste into CLAUDE.md, .cursor/rules or AGENTS.md. Regenerate after big refactors:
      npx roast-my-design-system@latest --rules
      Door note: Codex and Cursor read AGENTS.md; Claude Code reads CLAUDE.md only.
@@ -1155,7 +1155,7 @@ Follow these rules when writing or editing UI in this repo. Every rule below was
 <footer>
   <div class="foot-left">
     <div>Generated by <a class="brand" href="https://github.com/gregkozakiewicz/roast-my-design-system">roast-my-design-system</a> <span class="ver">ver. 7.3.0</span> · free to run: <span class="mono" id="npx-cmd">npx roast-my-design-system@latest</span> <button type="button" class="copy-pill" id="npx-copy">copy</button> · also a Claude Code + Codex skill and a local MCP server</div>
-    <div class="foot-sub">Designed and built by <a class="author" href="https://gregkozakiewicz.com/?utm_source=roast-report"><span class="gk-mark"></span>Greg Kozakiewicz</a> · <span class="scan-id" title="scan id">fcd87125ec27</span> · Think it got something wrong? <a class="feedback" href="https://github.com/gregkozakiewicz/roast-my-design-system/issues/new?template=feedback.yml&amp;version=7.2.0"><svg class="pulse" viewBox="0 0 24 24" aria-hidden="true"><polyline points="2 12.5 6.5 12.5 9.5 4 15 20.5 18 12.5 22 12.5"/></svg>Say so, and say which bit</a></div>
+    <div class="foot-sub">Designed and built by <a class="author" href="https://gregkozakiewicz.com/?utm_source=roast-report"><span class="gk-mark"></span>Greg Kozakiewicz</a> · <span class="scan-id" title="scan id">7f83f3a065c1</span> · Think it got something wrong? <a class="feedback" href="https://github.com/gregkozakiewicz/roast-my-design-system/issues/new?template=feedback.yml&amp;version=7.2.0"><svg class="pulse" viewBox="0 0 24 24" aria-hidden="true"><polyline points="2 12.5 6.5 12.5 9.5 4 15 20.5 18 12.5 22 12.5"/></svg>Say so, and say which bit</a></div>
   </div>
   <span class="creds"><span>Non-destructive scan</span><span>Read-only</span><span>Paths are real</span></span>
 </footer>

diff --git a/docs/index.html b/docs/index.html
@@ -133,7 +133,7 @@
 
 <h2>Example roasts</h2>
 <p class="sub">Real reports from public repos, hosted exactly as the skill generates them. Every number is deterministic; every path is real.</p>
-<a class="card" href="examples/vercel-ai-chatbot.html"><div>vercel/ai-chatbot<em class="notes-chip">with Claude's notes</em><span>100 arbitrary values like [13px] punched through the Tailwind scale, and 45 palette colours where a theme variable exists</span></div><div class="score">71<i>/100</i></div></a>
+<a class="card" href="examples/vercel-ai-chatbot.html"><div>vercel/ai-chatbot<em class="notes-chip">with Claude's notes</em><span>100 arbitrary values like [13px] punched through the Tailwind scale, and 40 palette colours where a theme variable exists</span></div><div class="score">67<i>/100</i></div></a>
 <a class="card" href="examples/excalidraw-excalidraw.html"><div>excalidraw/excalidraw<span>84 off-scale spacing values and 90 !important declarations</span></div><div class="score">55<i>/100</i></div></a>
 <a class="card" href="examples/dubinc-dub.html"><div>dubinc/dub<span>622 arbitrary bracket values and 22 duplicated components</span></div><div class="score">15<i>/100</i></div></a>
 <a class="card" href="examples/telekom-scale.html"><div>telekom/scale<em class="notes-chip">with Claude's notes</em><span>95 Stencil components read by tag; 66 off-scale spacing values where a dozen would do</span></div><div class="score">55<i>/100</i></div></a>

diff --git a/CHANGELOG.md b/CHANGELOG.md
@@ -7,10 +7,11 @@ All notable changes to roast-my-design-system. One version everywhere: the npm p
 A shadcn repo is now compared with the shadcn repos in the benchmark, not
 with the whole fleet. Scores on repos that are not shadcn do not move. On
 shadcn repos a tile's amber band now ends at the shadcn median instead of
-the fleet median, so scores can move both ways: vercel/ai-chatbot 67 to 71
-(100 bracket values sit under the shadcn median of 169), dubinc/dub 24 to
-15 (118 colours and 15 greys sit over the shadcn medians of 115 and 14).
-No fixture score moved.
+the fleet median, so scores can move both ways. dubinc/dub 24 to 15: 118
+colours and 15 greys sit over the shadcn medians of 115 and 14.
+vercel/ai-chatbot stays at 67: its 100 bracket values sit under the shadcn
+median of 169 (red to amber), and its 18 restyled components per 100 files
+sit over the shadcn median of 17 (amber to red). No fixture score moved.
 
 - **The shadcn slice.** `benchmark.json` gains `slices.shadcn`: the same
   statistics as the general table, measured over every fleet repo the
@@ -24,8 +25,16 @@ No fixture score moved.
   and the reading can not drift apart. The curated ideals moved to
   `tools/benchmark/ideal.mjs`, shared by both builders, and gained the 2
   shadcn entries (25 and 15 per 100 own-code files).
+- **Installed registries are installed code.** A folder that a third-party
+  shadcn registry installs beside the catalogue (ai-elements, kibo-ui,
+  magicui, motion-primitives, or any name declared under `registries` in
+  `components.json`) is read like the catalogue: not the team's own code,
+  and its components count as components when own code restyles them. 3 of
+  the 17 shadcn repos in the fleet carry one. The receipt under the header
+  names them.
 - **`summary.json`** records the slice a scan was measured against under
-  `benchmark.slice` (kind, repo count, build date). New field only.
+  `benchmark.slice` (kind, repo count, build date), and the `shadcn` block
+  lists installed registries. New fields only.
 - The 2 shadcn ideals and the fleet numbers 7.2.0 kept inside the shadcn
   profile now live in the benchmark file, where every other number lives.
 
